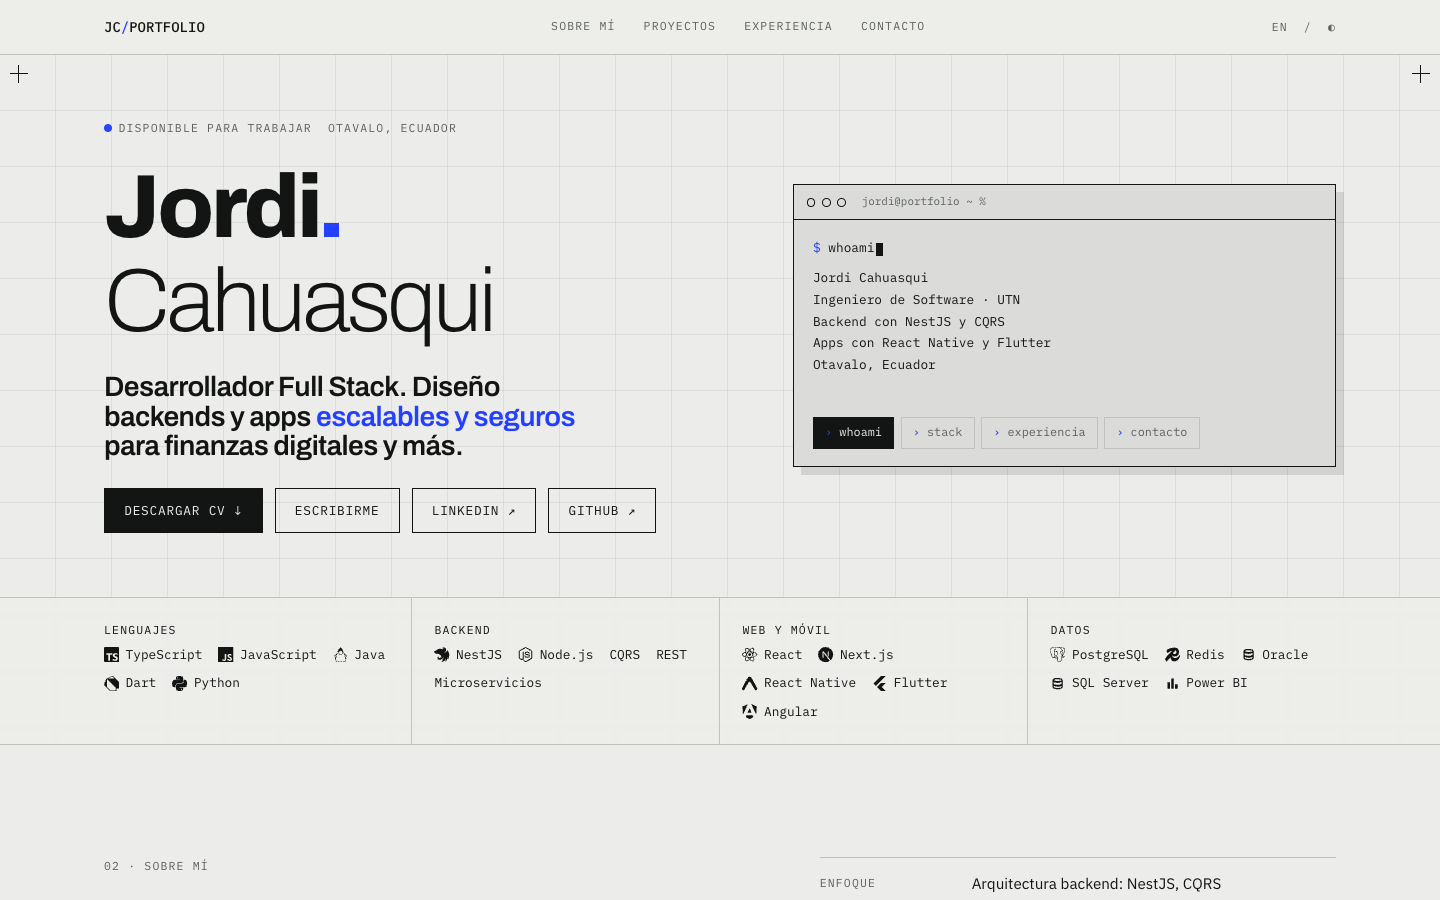
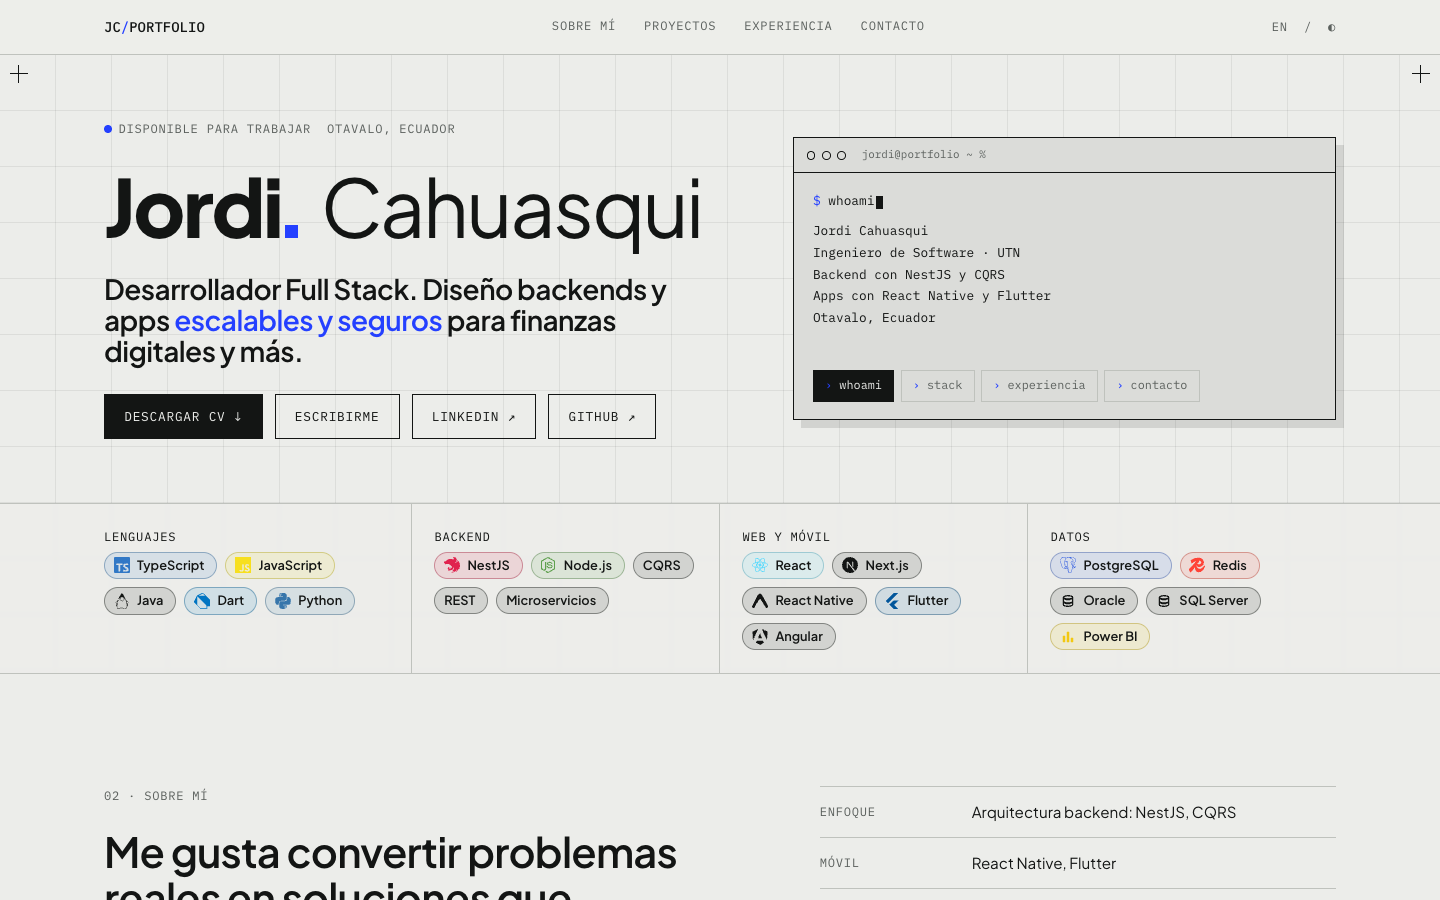
Rediseño tipográfico y badges de tecnología con color de marca
Plus Jakarta Sans en títulos y texto, badges en píldora con icono y color
de cada marca (filtros, tarjetas y bloque del héroe) y capturas del README nuevas.

diff --git a/src/styles/global.css b/src/styles/global.css
@@ -8,8 +8,8 @@
   --mute: #5b605d;
   --line: #bfc2bd;
   --accent: #2440ff;
-  --f-display: "Archivo", "Arial Narrow", system-ui, sans-serif;
-  --f-body: "IBM Plex Sans", system-ui, sans-serif;
+  --f-display: "Plus Jakarta Sans", system-ui, sans-serif;
+  --f-body: "Plus Jakarta Sans", system-ui, sans-serif;
   --f-mono: "IBM Plex Mono", ui-monospace, Menlo, monospace;
 }
 @media (prefers-color-scheme: dark) {
@@ -57,9 +57,9 @@ body {
 html[lang="es"] [data-l="en"], html[lang="en"] [data-l="es"] { display: none !important; }
 
 .mono { font-family: var(--f-mono); }
-.label { font-family: var(--f-mono); font-size: .72rem; letter-spacing: .1em; text-transform: uppercase; color: var(--mute); }
-.disp { font-family: var(--f-display); font-stretch: 125%; font-weight: 800; letter-spacing: -.03em; line-height: .9; text-transform: uppercase; }
-.disp-n { font-family: var(--f-display); font-stretch: 100%; font-weight: 700; letter-spacing: -.02em; line-height: 1.05; }
+.label { font-family: var(--f-mono); font-size: .76rem; letter-spacing: .06em; text-transform: uppercase; color: var(--mute); }
+.disp { font-family: var(--f-display); font-weight: 800; letter-spacing: -.03em; line-height: 1; }
+.disp-n { font-family: var(--f-display); font-weight: 800; letter-spacing: -.02em; line-height: 1.1; }
 .mask { display: block; overflow: hidden; padding-bottom: .06em; margin-bottom: -.06em; }
 .hair { border-color: var(--line); }
 
@@ -115,13 +115,15 @@ body::before { content: ""; position: fixed; inset: 0 0 auto; height: env(safe-a
 /* filtros */
 .filters { background: var(--bg); border-block: 1px solid var(--line); }
 @media (max-width: 899px) { .filters { position: sticky; top: calc(env(safe-area-inset-top, 0px) + 3.35rem); z-index: 10; } }
-.badge { display: inline-flex; align-items: center; gap: .5rem; border: 1px solid var(--line); padding: .4rem .75rem .4rem .6rem; font-family: var(--f-mono); font-size: .76rem; background: transparent; color: var(--fg); transition: background .2s, color .2s, border-color .2s, transform .2s; cursor: pointer; }
-.badge svg { width: 1rem; height: 1rem; flex: none; fill: currentColor; }
-.badge sup { font-size: .6rem; color: var(--mute); margin-left: .1rem; }
-.badge:hover { border-color: var(--fg); transform: translateY(-2px); }
-.badge[aria-pressed="true"] { background: var(--fg); color: var(--bg); border-color: var(--fg); }
-.badge[aria-pressed="true"] sup { color: color-mix(in srgb, var(--bg) 70%, transparent); }
-.badge-all[aria-pressed="true"] { background: var(--accent); border-color: var(--accent); }
+.badge { --c: var(--fg); display: inline-flex; align-items: center; gap: .5rem; border: 1px solid color-mix(in srgb, var(--c) 35%, var(--line)); border-radius: 999px; padding: .42rem .85rem .42rem .65rem; font-family: var(--f-body); font-weight: 600; font-size: .85rem; line-height: 1.2; background: color-mix(in srgb, var(--c) 12%, var(--bg)); color: var(--fg); transition: background .2s, border-color .2s, transform .2s, box-shadow .2s; cursor: pointer; }
+.badge svg { width: 1.05rem; height: 1.05rem; flex: none; fill: var(--c); }
+.badge sup { font-size: .68rem; font-weight: 500; color: var(--mute); margin-left: .05rem; }
+.badge:hover { border-color: var(--c); transform: translateY(-2px); }
+.badge[aria-pressed="true"] { background: var(--c); border-color: var(--c); color: #fff; box-shadow: 0 4px 14px -4px var(--c); }
+.badge[aria-pressed="true"] svg { fill: #fff; }
+.badge[aria-pressed="true"] sup { color: rgb(255 255 255 / .8); }
+.badge-all { --c: var(--accent); }
+.badge-all[aria-pressed="true"] { color: var(--bg); }
 .scroller { display: flex; gap: .5rem; overflow-x: auto; padding-block: .3rem; scrollbar-width: none; }
 .scroller::-webkit-scrollbar { display: none; }
 @media (min-width: 900px) { .scroller { flex-wrap: wrap; overflow: visible; } }
@@ -130,9 +132,9 @@ body::before { content: ""; position: fixed; inset: 0 0 auto; height: env(safe-a
 .proj { border-bottom: 1px solid var(--line); position: relative; transition: background .25s; }
 .proj::before { content: ""; position: absolute; left: 0; top: 0; bottom: 0; width: 3px; background: var(--accent); transform: scaleY(0); transform-origin: top; transition: transform .35s cubic-bezier(.2,.7,.2,1); }
 @media (hover: hover) { .proj:hover::before { transform: scaleY(1); } .proj:hover { background: color-mix(in srgb, var(--fg) 4%, transparent); } }
-.tech-i { display: inline-flex; align-items: center; gap: .4rem; font-family: var(--f-mono); font-size: .72rem; color: var(--mute); }
-.tech-i svg { width: .95rem; height: .95rem; fill: currentColor; }
-.tech-i.hit { color: var(--accent); }
+.tech-i { --c: var(--fg); display: inline-flex; align-items: center; gap: .45rem; border: 1px solid color-mix(in srgb, var(--c) 35%, var(--line)); border-radius: 999px; padding: .3rem .75rem .3rem .55rem; background: color-mix(in srgb, var(--c) 12%, var(--bg)); font-weight: 600; font-size: .82rem; line-height: 1.2; color: var(--fg); transition: box-shadow .2s, border-color .2s; }
+.tech-i svg { width: 1rem; height: 1rem; fill: var(--c); }
+.tech-i.hit { border-color: var(--c); box-shadow: 0 0 0 2px color-mix(in srgb, var(--c) 35%, transparent); }
 .plink { font-family: var(--f-mono); font-size: .78rem; letter-spacing: .06em; text-transform: uppercase; border: 1px solid var(--line); padding: .4rem .7rem; transition: background .2s, color .2s, border-color .2s; }
 .plink:hover { background: var(--fg); color: var(--bg); border-color: var(--fg); }
 .facts > div { border-top: 1px solid var(--line); padding-top: .7rem; }
@@ -211,7 +213,7 @@ body::before { content: ""; position: fixed; inset: 0 0 auto; height: env(safe-a
 .lb-x { position: absolute; top: .5rem; right: .7rem; font-size: 1rem; padding: .3rem .6rem; border: 1px solid var(--fg); background: var(--bg); z-index: 1; }
 
 /* nombre */
-.name2 { display: flex; flex-wrap: wrap; align-items: baseline; gap: .1em .28em; font-family: var(--f-display); font-stretch: 100%; font-size: clamp(2.8rem, 6.4vw, 5.6rem); line-height: .95; letter-spacing: -.035em; }
+.name2 { display: flex; flex-wrap: wrap; align-items: baseline; gap: .1em .28em; font-family: var(--f-display); font-weight: 800; font-size: clamp(2.6rem, 6vw, 5rem); line-height: 1; letter-spacing: -.03em; }
 .name2 .n1 { font-weight: 800; }
 .name2 .n2 { font-weight: 200; color: var(--fg); }
 .name2 .n1::after { content: ""; display: inline-block; width: .16em; height: .16em; background: var(--accent); margin-left: .05em; }

diff --git a/src/lib/icons.ts b/src/lib/icons.ts
@@ -11,7 +11,17 @@ const custom: Record<string, string> = {
   bars: 'M4 20V10h4v10H4zm6 0V4h4v16h-4zm6 0v-7h4v7h-4z',
 };
 
-const icons = si as unknown as Record<string, { path: string } | undefined>;
+const icons = si as unknown as Record<string, { path: string; hex: string } | undefined>;
+
+// Color de marca de lo que simple-icons no incluye.
+const customHex: Record<string, string> = { bars: 'F2C811', db: 'F80000' };
+
+/** Color de marca (hex sin #). Si es casi negro devuelve null: en ese caso se usa el color del texto. */
+export const brandColor = (key: string): string | null => {
+  const hex = customHex[key] ?? (key ? icons['si' + key]?.hex : undefined) ?? customHex.db;
+  const [r, g, b] = [0, 2, 4].map((i) => parseInt(hex.slice(i, i + 2), 16));
+  return 0.2126 * r + 0.7152 * g + 0.0722 * b < 60 ? null : '#' + hex;
+};
 
 /** Ruta SVG de un icono: clave de simple-icons sin el prefijo "si", o una clave propia ('db', 'bars'); '' = sin icono. */
 export const iconPath = (key: string): string | undefined =>
@@ -19,7 +29,7 @@ export const iconPath = (key: string): string | undefined =>
 
 /** Tecnologías que sirven de filtro, con su icono resuelto. */
 export const techMap = Object.fromEntries(
-  techs.map((x) => [x.id, { ...x, path: iconPath(x.icon) ?? dbPath }]),
+  techs.map((x) => [x.id, { ...x, path: iconPath(x.icon) ?? dbPath, color: brandColor(x.icon || 'db') ?? 'var(--fg)' }]),
 );
 
 /** Cuántos proyectos usan cada tecnología (los ids son iguales en todos los idiomas). */
